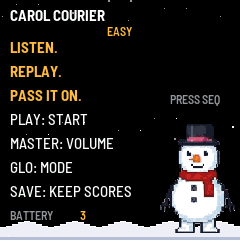
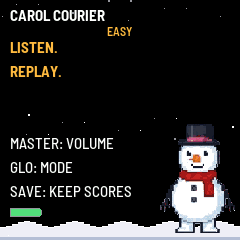
Carol Courier: battery meter replaces the number and label; drop PRESS SEQ

diff --git a/carol-courier/app.c b/carol-courier/app.c
@@ -1162,6 +1162,30 @@ static void draw_confetti(void)
             rrect((int32_t)ui.conf_x[i], (int32_t)ui.conf_y[i], 3, 2, CONF[ui.conf_c[i] % 5u]);
 }
 
+/* Battery: a small outlined meter whose fill and color read at a glance —
+ * red when low (0), orange at medium (1-2), green when high (3, or USB-powered).
+ * plat_battery's four steps map to fill widths; the empty step still shows a
+ * short red stub so low is visible, and -1 (not read yet) draws outline only. */
+static void battery_meter(int32_t x, int32_t y)
+{
+    const int32_t w = 30, h = 9;
+    int raw = plat_battery(), lvl = raw, fill;
+    uint16_t col;
+    if (lvl < 0)
+        lvl = 0;
+    if (lvl > 3)
+        lvl = 3;                                    /* 4: USB-powered, treat as full */
+    col = (lvl == 0) ? RGB(232, 76, 60) : (lvl <= 2) ? RGB(232, 136, 30) : RGB(80, 220, 120);
+    fill = (raw < 0) ? 0 : (lvl == 0) ? 4 : lvl * (w / 3);
+    rrect(x, y, w, 1, C_GRAY);                      /* outline */
+    rrect(x, y + h - 1, w, 1, C_GRAY);
+    rrect(x, y, 1, h, C_GRAY);
+    rrect(x + w - 1, y, 1, h, C_GRAY);
+    rrect(x + w, y + 2, 2, h - 4, C_GRAY);          /* the nub */
+    if (fill > 0)
+        rrect(x + 1, y + 1, fill, h - 2, col);
+}
+
 /* The play mode, on every screen, centered below the name. The width comes
  * from an off-canvas probe draw (cv_text returns the end x; nothing is
  * painted that far above the band), so no text is ever painted off-centre. */
@@ -1188,7 +1212,6 @@ static void draw_content(void)
     switch (ui.state) {
     case ST_TITLE: {
         frosty(198, 234, ui.frame);
-        ttext(170, 92, &FONT_XS, "PRESS SEQ", C_GRAY);
         ttext(10, 40, &FONT_B, "LISTEN.", C_HI);
         ttext(10, 64, &FONT_B, "REPLAY.", C_HI);
 if ((ui.frame / 60u) & 1u)   /* blink ~1 Hz: on for a second, off for a second */
@@ -1196,9 +1219,7 @@ if ((ui.frame / 60u) & 1u)   /* blink ~1 Hz: on for a second, off for a second *
         ttext(10, 136, &FONT_S, "MASTER: VOLUME", C_WHITE);
         ttext(10, 160, &FONT_S, "GLO: MODE", C_WHITE);
         ttext(10, 184, &FONT_S, "SAVE: KEEP SCORES", C_WHITE);
-        int_text((int32_t)(plat_battery() < 0 ? 0 : plat_battery()), t);
-        ttext(10, 208, &FONT_XS, "BATTERY", C_GRAY);
-        ttext(80, 208, &FONT_XS, t, C_HI);
+        battery_meter(10, 208);
         break;
     }
     case ST_SELECT: {
